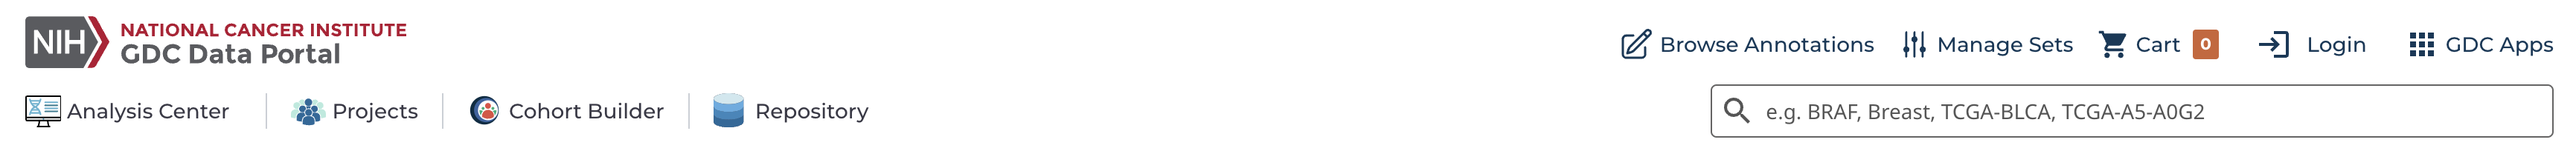
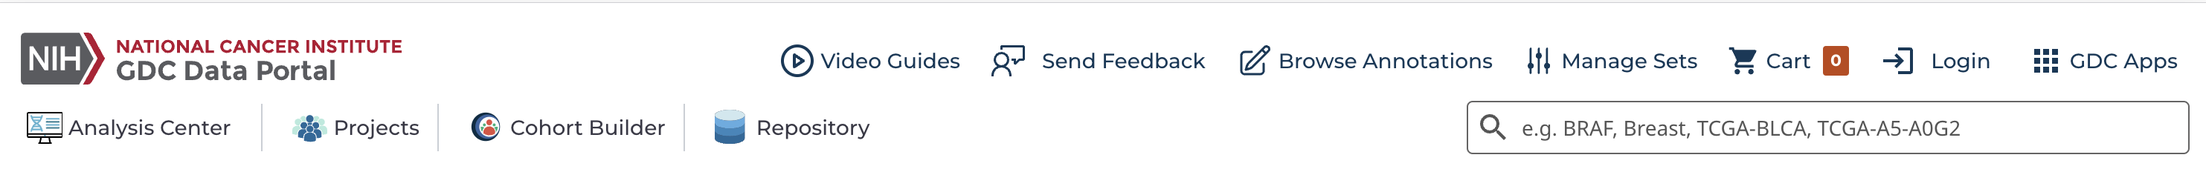
DOC-360 removes coming soon for manage sets; updates header image

diff --git a/docs/Data_Portal/Users_Guide/quick_start.md b/docs/Data_Portal/Users_Guide/quick_start.md
@@ -17,7 +17,7 @@ On the upper-left is the GDC Data Portal logo, which links to the home page of t
 
 On the right are the following features:
 * **Browse Annotations**: links to the Annotations Browser, where the user can view and search for annotations that may be of use when analyzing GDC data.
-* **Manage Sets** (Coming Soon!): allows the user to review gene and mutation sets that have been saved, upload new sets, and delete existing sets.
+* **Manage Sets**: allows the user to review gene and mutation sets that have been saved, upload new sets, and delete existing sets.
 * **Cart**: where data files of interest can be added for download.
 * **Login**: allows authentication for access to controlled access datasets.
 * **GDC Applications**: contains links to other GDC sites and applications.
